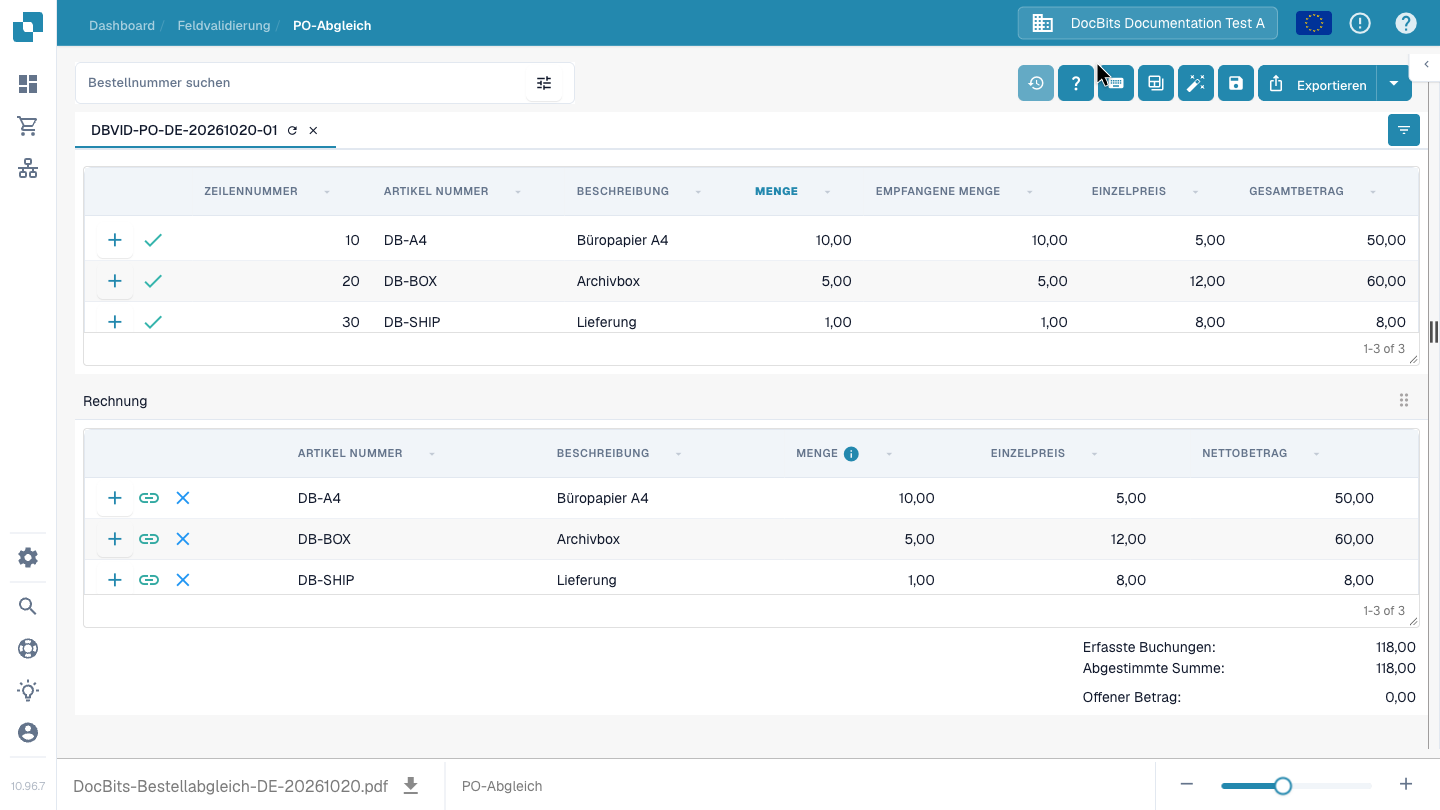
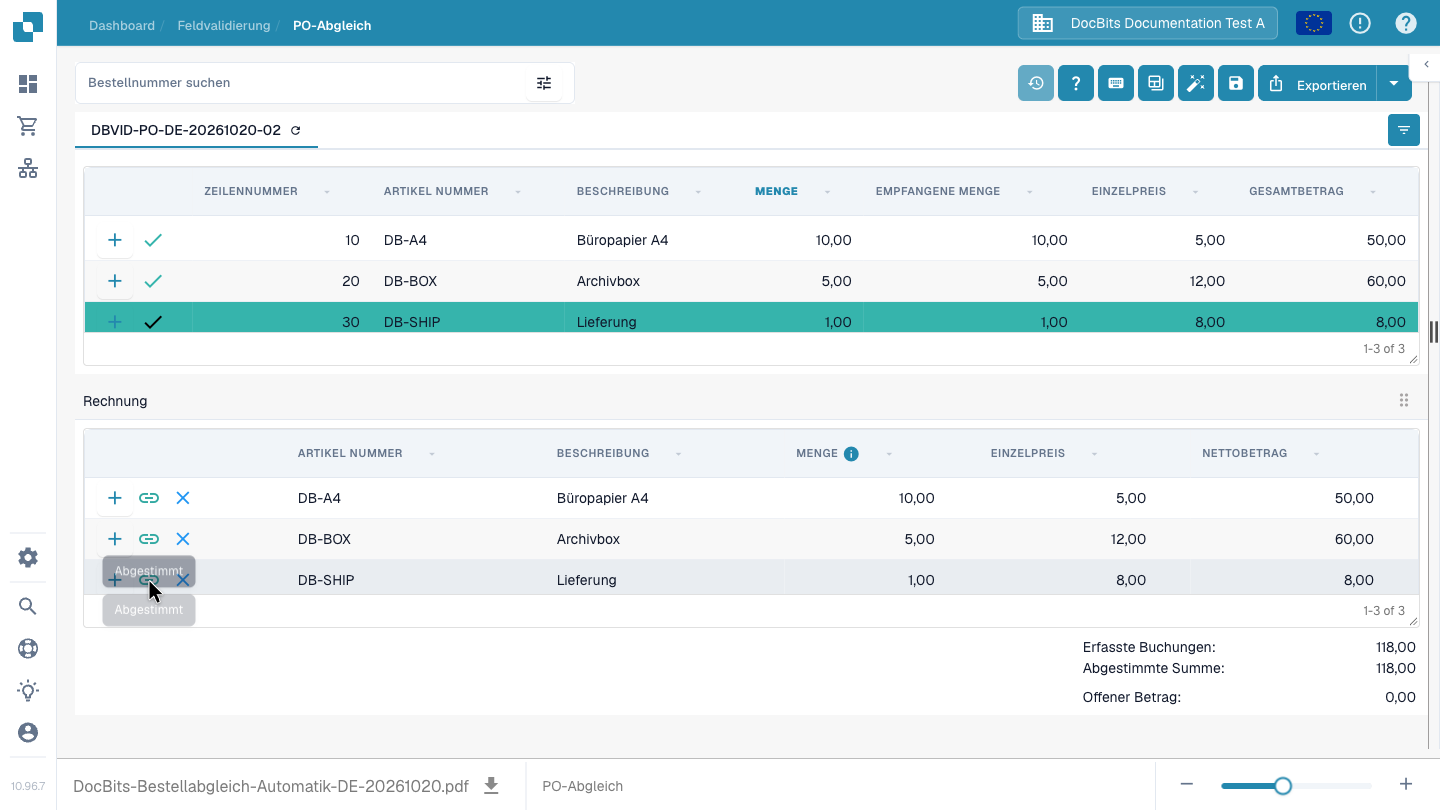
docs(de): explain automatic PO matching and add admin rules tutorial

diff --git a/readme/administration-and-setup/settings/global-settings/document-types/more-settings/purchase-order/purchase-order-matching-rules.md b/readme/administration-and-setup/settings/global-settings/document-types/more-settings/purchase-order/purchase-order-matching-rules.md
@@ -1,8 +1,18 @@
 # Regeln für die Übereinstimmung von Bestellungen
 
+## Video: PO-Abgleichsregeln und Toleranzen einrichten
+
+Der Administrator zeigt, wie er eine veröffentlichte Regelversion als Entwurf kopiert, die Vergleiche prüft, eine Änderung speichert und den gespeicherten Entwurf erneut lädt. Der Rundgang erklärt **Single Match**, **Multi Match** und **Match on Total**, Prioritäten innerhalb der Verarbeitungsstufen, automatische und manuelle Anwendung, Spaltenvergleiche, Aktivierungsbedingungen, Einheiten und Verpackungseinheiten.
+
+Im zweiten Teil richtet er beim Dokumenttyp eine **Einzelpreistoleranz von fünf Prozent** ein und erklärt Prozentwerte, feste Beträge, artikelbezogene Vorgaben sowie getrennte Toleranzen für Fracht, Zusatzkosten und Steuern. Die Veröffentlichung und Aktivierung einer Regelversion erfolgen erst nach fachlichen Tests.
+
+{% embed url="https://docbits-videos.fra1.cdn.digitaloceanspaces.com/settings-assistant/po-matching-rules-admin/v1/de.mp4" %}
+
+**Full Match ist ein Dokumentstatus, kein Regeltyp:** Alle relevanten Rechnungspositionen sind erfolgreich abgeglichen. Ein **Partial Match** lässt weitere Rechnungspositionen offen und bedeutet keine feste 50-Prozent-Grenze. Eine Regel vom Typ **Match on Total** kann zu einem vollständigen Abgleich beitragen, hat aber eine andere Bedeutung. Freigabe und Export bleiben eigene Prozessschritte. Den Ablauf für Anwender zeigt der [Rundgang zum Bestellabgleich](../../../../../../end-user-and-partner-section/end-user-section/purchase-order-matching/README.md).
+
 ## Einführung: Bestellungen und Verwaltung der PO-Regeln
 
-Die Übereinstimmung von Bestellungen (Purchase Order, PO) ist ein kritischer Prozess, um die Konsistenz zwischen Bestellungen (POs) und den entsprechenden eingehenden Rechnungen oder Wareneingängen sicherzustellen. Ein robustes Regelwerk ist unerlässlich, um eine hohe Rate an automatischer Übereinstimmung zu erreichen, Betrug zu verhindern und korrekte Zahlungen zu gewährleisten.
+Die PO-Abgleichsregeln bestimmen, welche Rechnungs- und Bestellpositionen zusammenpassen. DocBits verwendet sie beim automatischen Abgleich und, soweit für die Regel zugelassen, bei einer manuell gewählten Verbindung. Administratoren legen Vergleichsfelder, Regeltypen, Prioritäten und fachliche Ausnahmen fest.
 
 Diese Konfigurationsseite dient dazu, die Regeln zu definieren und zu verwalten, die bestimmen, _wie_ PO-Positionen mit dem entsprechenden eingehenden Dokument (Rechnung, Auftragsbestätigung) abgeglichen werden.
 
@@ -14,7 +24,7 @@ Diese Konfigurationsseite dient dazu, die Regeln zu definieren und zu verwalten,
 
 ## Zugriff
 
-1. Navigieren Sie zu **Einstellungen** → **Globale Einstellungen** → **Dokumenttypen**, wählen Sie den Dokumenttyp aus und klicken Sie auf **Weitere Einstellungen**.
+1. Navigieren Sie zu **Einstellungen** → **Dokumenttypen**, wählen Sie den Dokumenttyp aus und klicken Sie auf **Weitere Einstellungen**.
 2. Aktivieren Sie in der Karte **Bestellung** den Schalter **PO-Match serverseitig**.
 3. Klicken Sie neben dem Schalter auf **PO-Abgleichsregeln konfigurieren**.
 
@@ -45,12 +55,8 @@ Diese Einstellungen legen den Rahmen fest, der für alle Matching-Regeln gilt:
   * **Gültige Werte:** Menge oder andere verfügbare Mengenfelder im System, abhängig von der Datenstruktur (z. B. ein alternatives normalisiertes Mengenfeld).
   * **Abhängigkeit:** Bestimmt die Grundlage für alle Matching-Regeln, die Menge in ihren Vergleichskriterien einschließen.
 * **Einstellung:** Standardtoleranz
-  * **Zweck:** Definiert, wie stark ein numerischer Wert im Dokument vom Bestellwert abweichen darf und trotzdem als Übereinstimmung gilt. Dies kompensiert Rundungsdifferenzen. Es gilt für **jede numerische Spalte**, bei der "Toleranz zulassen" aktiviert ist — sowohl Menge als auch Stückpreis.
-  * **Gültiger Wert:** Eine Dezimalzahl. Ob diese als **absoluter Wert** (0,005 = eine Abweichung von bis zu 0,005 in der verglichenen Menge oder dem Preis) oder als **Prozentsatz** (0,5 = 0,5 % des verglichenen Werts) interpretiert wird, wird durch den **Toleranztyp** des Regelwerks festgelegt (`value` oder `percent`; neue Regelwerke verwenden `value`). Artikelspezifische Toleranzen (siehe [Toleranzeinstellungen](purchase-order-tolerance-settings-additional-purchase-order-tolerance.md)) überschreiben die Standardtoleranz für diesen Artikel.
-  * **Abhängigkeit:** Gilt für Regeln, die numerische Felder zum Abgleich verwenden und bei denen die Option "Toleranz zulassen" aktiviert ist.
-* **Einstellung:** Einzelspiel-Fallback aktivieren
-  * **Zweck:** Wenn aktiviert, wird die letzte verbleibende nicht abgeglichene Bestellposition automatisch abgeglichen, auch wenn die Lieferscheinnummer abweicht. Der Abgleich wird zu Ihrer Prüfung als Abweichung markiert.
-  * **Gültige Werte:** Ein oder aus. Der Standard ist aus.
+  * Die Anzeige, zum Beispiel `0.005`, ist keine Eingabe für fünf Prozent Einzelpreisabweichung. Richten Sie fachliche Mengen- und Einzelpreisgrenzen in den [PO-Toleranzeinstellungen des Dokumenttyps](purchase-order-tolerance-settings-additional-purchase-order-tolerance.md) ein. Dort besitzt jeder Wert eine eigene Auswahl für Prozent oder einen festen Wert.
+  * Im numerischen Spaltenvergleich der Regel muss **Toleranz zulassen** aktiviert sein. Artikelbezogene Vorgaben können die allgemeinen Werte übersteuern; prüfen Sie das konkrete Ergebnis mit Testbelegen.
 
 ***
 
@@ -62,11 +68,11 @@ Die Regelliste zeigt alle verfügbaren Matching-Regeln an und verwaltet deren Au
 
 #### Aufbau und Ausführung
 
-* **Priorität:** Dieses numerische Feld (z. B. 1, 2, 3) bestimmt die Reihenfolge der Ausführung der Regeln. Regeln mit einer niedrigeren Prioritätsnummer werden zuerst versucht. Dies ermöglicht Administratoren, eine Hierarchie zu strukturieren, typischerweise beginnend mit den spezifischsten und strengsten Regeln (z. B. Abgleich nach Zeilennummer und Artikelnummer) und als Rückfall auf breitere oder weniger restriktive Regeln.
+* **Priorität:** Dieses numerische Feld (z. B. 1, 2, 3) bestimmt die Reihenfolge innerhalb der jeweiligen Verarbeitungsstufe. Regeln mit einer niedrigeren Prioritätsnummer werden dort zuerst versucht. Die Priorität einer Einzelregel ändert nicht die Reihenfolge der Regeltypen und Stufen. Dies ermöglicht Administratoren, eine Hierarchie zu strukturieren, typischerweise beginnend mit den spezifischsten und strengsten Regeln (z. B. Abgleich nach Zeilennummer und Artikelnummer) und als Rückfall auf breitere oder weniger restriktive Regeln.
 * **Name & Beschreibung:** Bietet eine klare Identifikation und Kontext für die Regel, erklärt die primären Kriterien (z. B. „Standardregel Nr. 1: Abgleich basierend auf Zeilennummer, Artikel-ID und Menge“).
-* **Aktiv:** Ein einfacher Umschalter, der eine sofortige Aktivierung oder Deaktivierung der Regel ermöglicht, ohne die Konfiguration löschen zu müssen.
+* **Aktiv:** Bestimmt, ob die Regel im gewählten Regelwerk verwendet wird. Bei der Bearbeitung eines Entwurfs ändern Sie zunächst diesen Entwurf; Speichern, Genehmigen und Aktivieren der Version sind getrennte Schritte.
 
-**Ausführungsablauf:** Das System führt den Abgleich in einer kaskadierenden Reihenfolge durch. Wenn eine Regel (z. B. Priorität 1) eine Position erfolgreich abgleicht, wird der Prozess für diese Position beendet. Wird keine Übereinstimmung gefunden, fährt das System mit der nächsten Regel in der Prioritätsreihenfolge fort (z. B. Priorität 2). Jeder Lauf wird im Dokument protokolliert; der **Matching-Verlauf** im Bildschirm zur Bestellabstimmung zeigt, welche Regel versucht wurde, welche übereinstimmte und welche übersprungen wurden und warum.
+**Ausführungsablauf:** Das System führt den Abgleich in Verarbeitungsstufen durch, unter anderem Einzel-, Mehrfach- und Summenabgleich sowie Rückfallstufen. Innerhalb einer Stufe werden die passenden aktiven Regeln nach ihrer Priorität versucht. Wenn eine Regel (z. B. Priorität 1) eine Position erfolgreich abgleicht, wird der Prozess für diese Position beendet. Wird keine Übereinstimmung gefunden, fährt das System mit der nächsten Regel in der Prioritätsreihenfolge fort (z. B. Priorität 2). Jeder Lauf wird im Dokument protokolliert; der **Matching-Verlauf** im Bildschirm zur Bestellabstimmung zeigt, welche Regel versucht wurde, welche übereinstimmte und welche übersprungen wurden und warum.
 
 ***
 
@@ -83,10 +89,10 @@ Dieser detaillierte Konfigurationsbereich definiert die spezifische Logik und Kr
 | Regeltyp           | Was sie bewirkt                                                                                                                                                                                                                  | Typische Verwendung                                                                    |
 | ------------------ | -------------------------------------------------------------------------------------------------------------------------------------------------------------------------------------------------------------------------------- | -------------------------------------------------------------------------------------- |
 | **Einzelspiel**    | Eine Bestellposition zu einer Dokumentposition. Jede konfigurierte Spalte muss übereinstimmen (innerhalb der erlaubten Toleranz).                                                                                                | Der Standardfall.                                                                      |
-| **Mehrfachspiel**  | Mehrere Bestellpositionen zu einer Dokumentposition oder mehrere Dokumentpositionen zu einer Bestellposition. Mengen werden **summiert**, der Stückpreis wird als **Durchschnitt** verglichen, die anderen Spalten müssen übereinstimmen. | Teillieferungen, eine Rechnungsposition, die mehrere Bestellpositionen abdeckt.        |
-| **Spiel auf Gesamt** | Vergleicht einen **Betrag** — üblicherweise den Nettobetrag der Dokumentposition gegen die **Summe** der Bestellung — und gleicht die gesamte Bestellung auf einmal ab.                                                         | Lieferanten, die pauschal abrechnen, Dienstleistungsrechnungen, einzeilige Rechnungen. |
+| **Mehrfachspiel**  | Mehrere Bestellpositionen zu einer Dokumentposition oder mehrere Dokumentpositionen zu einer Bestellposition. Die konfigurierte Gruppierung und Vergleichsstrategie bestimmen, ob Werte gleich sein, innerhalb einer Toleranz liegen oder als Summe passen müssen. | Teillieferungen, eine Rechnungsposition, die mehrere Bestellpositionen abdeckt.        |
+| **Spiel auf Gesamt** | Vergleicht einen **Betrag** — üblicherweise den Nettobetrag der Dokumentposition gegen die **Summe** der Bestellung — nach den konfigurierten Summenvergleichen und Aktivierungsbedingungen. Dieser Regeltyp ist etwas anderes als der Dokumentstatus **Full Match**.                                                         | Lieferanten, die pauschal abrechnen, Dienstleistungsrechnungen, einzeilige Rechnungen. |
 
-<figure><img src="../../../../../../.gitbook/assets/po-match-rules-multi-match-configuration-de.png" alt="Die Konfiguration der Standardregel für Mehrfachspiel"><figcaption><p>Eine Mehrfachspiel-Regel vergleicht Artikelkennzeichen, summierte Menge und durchschnittlichen Stückpreis.</p></figcaption></figure>
+<figure><img src="../../../../../../.gitbook/assets/po-match-rules-multi-match-configuration-de.png" alt="Die Konfiguration der Standardregel für Mehrfachspiel"><figcaption><p>Eine Multi-Match-Regel vergleicht mehrere Positionen anhand ihrer Gruppierung und eingerichteten Vergleichsstrategien.</p></figcaption></figure>
 
 <figure><img src="../../../../../../.gitbook/assets/po-match-rules-total-match-configuration-de.png" alt="Die Konfiguration der Standardregel für Spiel auf Gesamt"><figcaption><p>Eine Regel Spiel auf Gesamt vergleicht einen Betrag, hier den Nettobetrag mit der Bestellsumme.</p></figcaption></figure>
 
@@ -121,7 +127,7 @@ Dies ist die Kern-Definition der Logik der Regel, die angibt, welche Felder zwis
    * **PO-Spalten:** Das Feld, das aus den Bestelldaten entnommen wird (z. B. Zeilennummer).
    * **Extrahierte Tabellenspalten:** Das entsprechende Feld, das aus dem eingehenden Dokument (Rechnung/Auftragsbestätigung) extrahiert oder geparst wurde (z. B. `POSITION`).
 2. **Vergleichstyp:** Definiert die Art der erforderlichen Übereinstimmung (z. B. Tt für Text-/Stringvergleich, der eine genaue Zeichen-für-Zeichen-Übereinstimmung erfordert; # für numerischen Vergleich).
-3. **Toleranz zulassen:** Für numerische Felder (Menge, Preis) weist diese Option das System an, die zuvor definierte globale Standardtoleranz anzuwenden. Ist diese Option _nicht_ aktiviert, müssen die Werte exakt übereinstimmen.
+3. **Toleranz zulassen:** Erlaubt beim jeweiligen numerischen Vergleich die zutreffenden [Mengen- und Einzelpreistoleranzen](purchase-order-tolerance-settings-additional-purchase-order-tolerance.md). Ohne diese Option wird die fachliche Toleranz für diese Vergleichsspalte nicht angewendet. Prüfen Sie auch mögliche artikelbezogene Vorgaben.
 4. **Bei manueller Übereinstimmung ignorieren:** Wenn aktiviert, wird dieses Kriterium bei manueller Intervention gelockert. Dies ist nützlich für Felder wie Beschreibungen oder interne Referenzen, die leicht variieren können, sodass der Benutzer kleinere, nicht kritische Abweichungen übergehen kann.
 
 **Welche Spalten können verglichen werden**

diff --git a/readme/end-user-and-partner-section/end-user-section/purchase-order-matching/README.md b/readme/end-user-and-partner-section/end-user-section/purchase-order-matching/README.md
@@ -1,12 +1,12 @@
 # Bildschirm „Purchase Order Matching“
 
-Mit **PO-Abgleich** vergleichen Sie die für ein Dokument hinterlegten Bestellpositionen mit den extrahierten Rechnungspositionen. Die Bestelldaten können aus einer ERP-Integration oder einem anderen konfigurierten Import stammen. Der Bildschirm zeigt das Dokument neben den beiden Tabellen an, damit Sie Nummern, Mengen, Preise und Abweichungen prüfen können, bevor Sie speichern oder exportieren.
+DocBits übernimmt eine auf der Rechnung erkannte **Bestellnummer** automatisch und lädt die zugehörige Bestellung für den **PO-Abgleich**. Sie müssen die Nummer dann nicht erneut eingeben oder die Bestellung manuell suchen. Eingerichtete Abgleichregeln können auch die Rechnungspositionen automatisch mit den Bestellpositionen verbinden. Ihre Aufgabe ist es, das Ergebnis zu prüfen und ungeklärte Abweichungen zu bearbeiten. Die Bestelldaten können aus einer ERP-Integration oder einem anderen konfigurierten Import stammen. Der Bildschirm zeigt das Dokument neben den beiden Tabellen an, damit Sie Nummern, Mengen, Preise und Abweichungen prüfen können, bevor Sie speichern oder exportieren.
 
 ## Rechnungspositionen prüfen und mit einer Bestellung abgleichen
 
-Der Rundgang zeigt die Suche nach einer Bestellung, den Vergleich von Artikeln, Mengen und Preisen sowie den manuellen und automatischen Positionsabgleich. Eine absichtlich falsche Zuordnung macht die Warnung sichtbar: Verbindung lösen, korrekt zuordnen, Summen kontrollieren und speichern. Nach dem Neuladen bleiben alle drei richtigen Zuordnungen erhalten.
+Der Rundgang beginnt mit dem Normalfall: DocBits hat die Bestellnummer aus der Rechnung übernommen, lädt die passende Bestellung ohne manuelle Suche und hat die drei Positionen automatisch abgeglichen. Die Anwenderin prüft Artikel, Mengen, Preise und Summen, erklärt Full Match und Partial Match an konkreten Beispielen und speichert das Ergebnis. Erst danach zeigt sie Sonderfälle: eine nicht erkannte Bestellnummer manuell suchen sowie eine falsche Verbindung lösen und korrigieren. Diese manuellen Schritte sind keine Pflichtschritte bei jeder Rechnung.
 
-{% embed url="https://docbits-videos.fra1.cdn.digitaloceanspaces.com/settings-assistant/po-matching-customer/v1/de.mp4" %}
+{% embed url="https://docbits-videos.fra1.cdn.digitaloceanspaces.com/settings-assistant/po-matching-customer/v2/de.mp4" %}
 
 {% hint style="info" %}
 Bestelldaten müssen in der Organisation verfügbar und der PO-Abgleich für den Dokumenttyp eingerichtet sein. Die Regeln, Toleranzen und verfügbaren Freigabe- oder Exportaktionen hängen von Ihrer Konfiguration und Ihren Berechtigungen ab.
@@ -14,18 +14,51 @@ Bestelldaten müssen in der Organisation verfügbar und der PO-Abgleich für den
 
 <figure><img src="../../../.gitbook/assets/po-matching-matched-de.png" alt="Gespeicherter deutscher Bestellabgleich: drei erfolgreich zugeordnete Rechnungspositionen, 118 Euro abgestimmt und 0 Euro offen"><figcaption><p>Das Beispiel enthält Papier, Archivboxen und Lieferung. Alle drei Positionen sind erfolgreich zugeordnet; der offene Betrag ist null.</p></figcaption></figure>
 
-## Bestellung finden und prüfen
+## Full Match, Partial Match und Abweichungen verstehen
 
-1. Öffnen Sie eine Rechnung im **PO-Abgleich**. Wenn Ihre Organisation mehrere Bestellungen hat, geben Sie eine Nummer in **Bestellnummer suchen** ein.
-2. Wählen Sie das Filtersymbol neben dem Suchfeld für **Schlüsselwort**, **Lieferant**, **Status**, **Status der Bestellung**, Daten, Betragsbereich, Sortierung und die Anzahl der angezeigten Datensätze. Wählen Sie **Mehr** für zusätzliche Kriterien. Wählen Sie **Anwenden**, um zu suchen, oder **Löschen**, um die Filter zurückzusetzen.
-3. Öffnet die Suche eine Ergebnisliste, laden Sie die passende Bestellung mit einem Doppelklick auf einen Treffer. Wählen Sie anschließend die Bestellnummer oberhalb der Tabelle aus, um deren Positionen zu prüfen. Das Aktualisierungssymbol neben der Nummer lädt die Daten dieser Bestellung neu. Ein Neuladen kann von der konfigurierten Integration abhängen.
-4. Vergleichen Sie jede Bestellposition mit der Rechnung und ihrer extrahierten Tabelle. Das **+** auf einer Position klappt Abgleich-Details auf; es verbindet die Position nicht selbst mit der Rechnung. Die Details zeigen vorhandene Verbindungen und Abgleichinformationen.
+| Ergebnis | Bedeutung | Ihr nächster Schritt |
+| --- | --- | --- |
+| **Full Match – vollständiger Abgleich** | Alle relevanten Rechnungspositionen sind nach den geltenden Regeln erfolgreich abgeglichen. Im Video sind das drei Positionen und 118 Euro netto. | Ergebnis und Beleg prüfen, speichern und den vorgesehenen Freigabe- oder Exportprozess fortsetzen. |
+| **Partial Match – teilweiser Abgleich** | Ein Teil der Rechnungspositionen ist zugeordnet, weitere Positionen sind noch offen. Im Video ist Papier mit 50 Euro zugeordnet; Archivboxen und Lieferung mit zusammen 68 Euro sind offen. | Offene Positionen und die Ursache prüfen; bei Bedarf die korrekte Zuordnung ergänzen oder die Angaben klären. |
+| **Abweichung / Unpassend** | Eine Verbindung besteht, aber ein geprüfter Wert wie Menge, Einzelpreis oder Artikelkennung passt nicht. | Abweichungsdetails lesen. Eine falsche Verbindung lösen; eine tatsächliche Differenz nach Ihrem Prüfprozess klären. |
 
-<figure><img src="../../../.gitbook/assets/po-matching-search-de.png" alt="Deutsche Bestell-Suchfilter mit Lieferant, Status, Datums- und Betragsgrenzen, Sortierung sowie Anwenden- und Löschen-Schaltflächen"><figcaption><p>Nutzen Sie das Filterpanel, um die angezeigten Bestellungen einzugrenzen.</p></figcaption></figure>
+<figure><img src="../../../.gitbook/assets/po-matching-partial-de.png" alt="Teilweiser Bestellabgleich: Papier erfolgreich zugeordnet, zwei Rechnungspositionen offen, 50 Euro abgestimmt und 68 Euro offen"><figcaption><p>Partial Match: Eine von drei Rechnungspositionen ist erfolgreich zugeordnet. Das ist keine feste 50-Prozent-Grenze.</p></figcaption></figure>
+
+„Half Match“ ist keine feste 50-Prozent-Grenze. Verwenden Sie für einen unvollständigen Abgleich den Begriff **Partial Match**. Eine passende Bestellnummer oder Gesamtsumme allein ergibt noch keinen Full Match. Umgekehrt darf die Bestellung weitere, noch nicht berechnete Positionen enthalten: Entscheidend sind die relevanten Positionen dieser Rechnung. Ein Full Match bestätigt den Abgleich; Freigabe und Export bleiben eigene Prozessschritte.
+
+## Was die Regeln und Toleranzen bestimmen
+
+Administratoren legen fest, welche Felder verglichen werden und welche Regeln automatisch oder bei einer manuellen Verbindung gelten. **Single Match** vergleicht eine Rechnungsposition mit einer Bestellposition. **Multi Match** ermöglicht den gemeinsamen Abgleich mehrerer Positionen nach den eingerichteten Gruppierungen und Vergleichsstrategien. **Match on Total** ist eine Regelart für summierte Werte und hat eine andere Bedeutung als der Dokumentstatus Full Match.
+
+Mengen- und Einzelpreistoleranzen können als Prozent oder fester Wert eingerichtet werden. Bei einem Bestellpreis von 10 Euro bedeuten 5 Prozent eine erlaubte Abweichung von 0,50 Euro in beide Richtungen, also 9,50 bis 10,50 Euro. Die passende numerische Vergleichsspalte der Regel muss Toleranz zulassen. Artikelbezogene Einstellungen können die allgemeinen Werte übersteuern. Außerhalb der erlaubten Grenzen klären Sie die Ursache; ändern Sie keine Rechnungswerte allein für eine erfolgreiche Markierung.
+
+### Adminvideo: PO-Abgleichsregeln und Toleranzen einrichten
+
+Der Administrator zeigt die drei Regeltypen, Prioritäten innerhalb der Verarbeitungsstufen, Spaltenvergleiche, automatische und manuelle Anwendung sowie erweiterte Optionen. Er bearbeitet und speichert einen Entwurf und richtet im Testbeispiel eine Einzelpreistoleranz von fünf Prozent ein. Er erklärt außerdem feste Werte, artikelbezogene Ausnahmen und die getrennten Grenzen für Fracht, Zusatzkosten und Steuern. Die Aktivierung eines geänderten Regelwerks folgt erst nach fachlichen Tests.
+
+{% embed url="https://docbits-videos.fra1.cdn.digitaloceanspaces.com/settings-assistant/po-matching-rules-admin/v1/de.mp4" %}
+
+Die einzelnen Einstellungen sind unter [PO-Abgleichsregeln](../../../administration-and-setup/settings/global-settings/document-types/more-settings/purchase-order/purchase-order-matching-rules.md) und [PO-Toleranzen](../../../administration-and-setup/settings/global-settings/document-types/more-settings/purchase-order/purchase-order-tolerance-settings-additional-purchase-order-tolerance.md) beschrieben.
+
+## Automatisch übernommene Bestellung prüfen
+
+1. Öffnen Sie die Rechnung im **PO-Abgleich**. Eine erkannte Bestellnummer wird aus dem Rechnungsfeld **Bestellung** übernommen; DocBits lädt darüber die zugehörigen Bestellpositionen automatisch. Voraussetzung ist, dass die Bestellung in Ihrer Organisation verfügbar ist.
+2. Wählen Sie die Bestellnummer oberhalb der Tabelle, um die geladenen Positionen zu prüfen. Das Aktualisierungssymbol neben der Nummer lädt die Daten dieser Bestellung neu. Ein Neuladen kann von der konfigurierten Integration abhängen.
+3. Vergleichen Sie die automatisch zugeordneten Rechnungs- und Bestellpositionen sowie ihre Statusmarkierungen. Das **+** auf einer Position klappt vorhandene Abgleich-Details auf; es verbindet die Position nicht selbst mit der Rechnung.
+
+### Nur bei Bedarf: Bestellung manuell suchen
+
+Ist keine passende Bestellnummer erkannt oder muss eine andere Bestellung geprüft werden, nutzen Sie die manuelle Suche:
+
+1. Geben Sie die Nummer in **Bestellnummer suchen** ein. Öffnet sich eine Ergebnisliste, laden Sie die passende Bestellung mit einem Doppelklick auf einen Treffer.
+2. Wählen Sie bei Bedarf das Filtersymbol neben dem Suchfeld für **Schlüsselwort**, **Lieferant**, **Status**, **Status der Bestellung**, Datums- und Betragsbereiche, Sortierung und die Anzahl der angezeigten Datensätze. Wählen Sie **Mehr** für zusätzliche Kriterien, **Anwenden** zum Suchen oder **Löschen** zum Zurücksetzen.
+3. Prüfen Sie anschließend die geladenen Bestellpositionen und das Abgleichergebnis. Eine manuelle Suche ersetzt die Prüfung der Bestellnummer auf dem Originalbeleg nicht. Wird kein Treffer gefunden, prüfen Sie außerdem den Import der Bestellung in diese Organisation. Die Suche legt keine fehlende Bestellung an.
+
+<figure><img src="../../../.gitbook/assets/po-matching-search-de.png" alt="Deutsche Bestell-Suchfilter mit Lieferant, Status, Datums- und Betragsgrenzen, Sortierung sowie Anwenden- und Löschen-Schaltflächen"><figcaption><p>Die manuelle Suche und ihre Filter helfen bei Sonderfällen. Eine bereits erkannte Bestellnummer müssen Sie hier nicht nochmals eingeben.</p></figcaption></figure>
 
 ## Positionen abgleichen und das Ergebnis prüfen
 
-Wenn beide Tabellen Positionen enthalten, verbinden Sie eine Rechnungsposition per Drag & Drop mit der passenden Bestellposition oder nutzen Sie die Abgleich-Aktionen im Kontextmenü der Position. **Auto Match** versucht, geeignete Positionen nach den Regeln Ihrer Organisation zu verbinden. Prüfen Sie das Ergebnis vor dem Speichern: Eine gleiche Artikelnummer allein belegt nicht, dass Menge, Preis oder Lieferbedingungen übereinstimmen. Siehe [Bestellnummer-Abgleich-Tools](purchase-order-matching-tools.md) für die Symbolleiste, Spaltensteuerung und manuelle Aktionen sowie [Tastenkombinationen](keyboard-shortcuts.md) für Tastaturaktionen.
+Der automatische Positionsabgleich verbindet geeignete Rechnungs- und Bestellpositionen nach den Regeln Ihrer Organisation. Prüfen Sie zuerst diese vorhandenen Zuordnungen. Bleiben Verbindungen offen oder ist eine Zuordnung falsch, können Sie Positionen manuell per Drag & Drop oder über das Kontextmenü verbinden. Über **Auto Match** können Sie den automatischen Abgleich bei Bedarf erneut anstoßen. Prüfen Sie das Ergebnis vor dem Speichern: Eine gleiche Artikelnummer allein belegt nicht, dass Menge, Preis oder Lieferbedingungen übereinstimmen. Siehe [Bestellnummer-Abgleich-Tools](purchase-order-matching-tools.md) für die Symbolleiste, Spaltensteuerung und manuelle Aktionen sowie [Tastenkombinationen](keyboard-shortcuts.md) für Tastaturaktionen.
 
 ### Manuell verbinden und eine falsche Zuordnung lösen
 
@@ -45,7 +78,7 @@ Häufige Meldungen und nächste Schritte:
 
 | Was Sie sehen | Was Sie prüfen sollten |
 | --- | --- |
-| Keine Bestellnummer | Prüfen Sie die Bestellnummer im Dokument, übernehmen Sie den korrekten Wert aus dem Originalbeleg und speichern Sie. |
+| Keine Bestellnummer | Prüfen Sie die Bestellnummer im Dokument. Wählen Sie das Zielfeld und übernehmen Sie den Wert durch Auswählen beziehungsweise Doppelklicken auf dem Originalbeleg; speichern Sie anschließend. Eine manuelle Tastatureingabe trainiert die Erkennung nicht. |
 | Keine Bestellung gefunden | Prüfen Sie die Nummer und ob die Bestellung in diese Organisation importiert wurde. |
 | Die Bestellung wurde gefunden, aber nicht verbunden | Versuchen Sie **Auto Match**, oder verbinden Sie die Positionen manuell, nachdem Sie beide Tabellen geprüft haben. |
 | Keine Bestellposition passt | Vergleichen Sie die Rechnungswerte mit der Bestellung und prüfen Sie die Abgleich-Historie. |

diff --git a/readme/administration-and-setup/settings/global-settings/document-types/more-settings/purchase-order/purchase-order-tolerance-settings-additional-purchase-order-tolerance.md b/readme/administration-and-setup/settings/global-settings/document-types/more-settings/purchase-order/purchase-order-tolerance-settings-additional-purchase-order-tolerance.md
@@ -1,63 +1,36 @@
 # Einstellungen zur Toleranz von Bestellungen / Zusätzliche Toleranz für Bestellungen
 
-### **Einstellung zur Konfiguration von Bestelltoleranzen**
+Mengen, Einzelpreise und zusätzliche Kosten dürfen nur innerhalb der fachlich festgelegten Grenzen vom Bestellwert abweichen. Administratoren richten diese Grenzen pro Dokumenttyp ein. Ein erfolgreicher Abgleich innerhalb der Toleranz ersetzt die Freigabe oder den Exportprozess nicht.
 
-Gehe zu **Einstellungen → Allgemeine Einstellungen → Dokumenttypen → Weitere Einstellungen → Bestellungen → Eigener Bereich für Bestelltoleranz**
+## Mengen- und Einzelpreistoleranzen einrichten
 
-#### **So funktioniert es**
+1. Öffnen Sie **Einstellungen → Dokumenttypen**, wählen Sie den Dokumenttyp, zum Beispiel **Rechnung**, und öffnen Sie **Weitere Einstellungen → Bestellung**.
+2. Aktivieren Sie **PO-Toleranzeinstellung**. Für **Menge** und **Einzelpreis** erscheint jeweils ein Zahlenfeld mit einer eigenen Auswahl **Einheit**.
+3. Wählen Sie **%** für einen Prozentsatz oder **Wert** für eine feste Abweichung und tragen Sie die fachlich erlaubte Grenze ein. Prüfen Sie beide Angaben getrennt.
+4. Kontrollieren Sie den angezeigten Wert nach dem Ändern. Schalter und Einheitenauswahl werden direkt gespeichert; ein Zahlenwert wird beim Verlassen des Feldes gespeichert.
+5. Lassen Sie im passenden numerischen Spaltenvergleich der [PO-Abgleichsregel](purchase-order-matching-rules.md) **Toleranz zulassen** zu. Testen Sie einen passenden Beleg sowie Werte innerhalb und außerhalb der Grenze, bevor Sie die Konfiguration im vorgesehenen Prozess verwenden.
 
-Wenn aktiviert, ermöglicht diese Einstellung, Toleranzen für **Menge** und/oder **Stückpreis** zu definieren. Diese Toleranzen können entweder als Prozentsatz oder als fester Wert festgelegt werden. Das bedeutet, dass eine Rechnung innerhalb des angegebenen Toleranzbereichs von der Bestellung (PO) abweichen kann, ohne als Abweichung markiert zu werden, was Flexibilität bietet und einen nahtlosen Ablauf gewährleistet.
+<figure><img src="../../../../../../.gitbook/assets/po-tolerances-five-percent-de.png" alt="Deutsche Dokumenttyp-Einstellungen: PO-Toleranzeinstellung aktiv, getrennte Werte für Menge und Einzelpreis, Einzelpreis auf fünf Prozent"><figcaption><p>Im Beispiel ist die Einzelpreistoleranz auf fünf Prozent eingestellt. Menge und Einzelpreis haben jeweils eine eigene Einheit.</p></figcaption></figure>
 
-<mark style="color:red;">**HINWEIS**</mark>**:** Toleranzen wirken in beide Richtungen; das heißt, der Rechnungswert kann sowohl höher als auch niedriger als der PO-Wert innerhalb des erlaubten Bereichs sein.
+## Prozent und fester Wert im Vergleich
 
-#### **Einrichten**
+Toleranzen gelten in beide Richtungen, bezogen auf den Bestellwert.
 
-* **Einstellung aktivieren:**
-  * Aktiviere die PO-Toleranzeinstellung.
-* **Toleranzen konfigurieren:**
-  * Es erscheinen vier Felder:
-    * Ein Feld für den **Mengen-Toleranzbetrag**.
-    * Ein Feld für den **Stückpreis-Toleranzbetrag**.
-  * Hinter jedem Feld gibt es ein Dropdown-Menü, in dem du den Toleranztyp auswählen kannst:
-    * **Prozent:** Gibt eine prozentuale Toleranz an.
-    * **Wert:** Gibt einen festen Betrag an, um den sich der Wert unterscheiden kann.
+| Einstellung | Bestellpreis | Erlaubter Bereich |
+| --- | --- | --- |
+| Einzelpreis **5 %** | 10,00 Euro | 9,50 bis 10,50 Euro |
+| Einzelpreis **5 %** | 20,00 Euro | 19,00 bis 21,00 Euro |
+| Einzelpreis **Wert 0,50** | 10,00 Euro | 9,50 bis 10,50 Euro |
+| Einzelpreis **Wert 0,50** | 20,00 Euro | 19,50 bis 20,50 Euro |
 
-<figure><img src="../../../../../../.gitbook/assets/docbits_docbits_image_11.jpg" alt="DocBits Bild"><figcaption></figcaption></figure>
+Ein Preis von 10,60 Euro liegt außerhalb einer Toleranz von fünf Prozent bei 10,00 Euro Bestellpreis. Prüfen Sie die Ursache der Differenz, statt einen Rechnungswert für eine erfolgreiche Markierung zu verändern. Bei einer Mengentoleranz bezeichnet ein fester Wert eine Mengenabweichung und keinen Geldbetrag.
 
-#### **Beispielszenario:**
+Artikelbezogene Toleranzen können die allgemeinen Dokumenttyp-Werte übersteuern. Die Vorgabe für die eigene Artikelnummer hat dabei Vorrang vor einer Vorgabe über die Lieferantenartikelnummer. Prüfen Sie deshalb beim Bewerten eines Ergebnisses auch die zutreffenden Artikelvorgaben und die verwendete Abgleichregel.
 
-* Angenommen, die **Stückpreis** ist auf **5%** eingestellt.
-* Die Bestellung umfasst zwei Zeilen:
-  * **Zeile 1:** Stückpreis = **$5.00**
-  * **Zeile 2:** Stückpreis = **$2.00**
-* Auf der Rechnung:
-  * **Zeile 1:** Der Stückpreis wird auf **$4.80** angepasst (**innerhalb** der 5% Toleranz).
-  * **Zeile 2:** Der Stückpreis wird auf **$2.20** angepasst (**außerhalb** der 5% Toleranz).
-* **Ergebnis:**
-  * Zeile 1 wird **nicht als Abweichung markiert**, da $4.80 innerhalb von 5% von $5.00 liegt.
-  * Zeile 2 **wird als Abweichung markiert**, da $2.20 die erlaubte Abweichung von 5% von $2.00 überschreitet. Der Benutzer muss nun Maßnahmen ergreifen, bevor die Rechnung weiter bearbeitet werden kann.
+## Zusätzliche Toleranzen für Fracht, Zusatzkosten und Steuern
 
-<figure><img src="../../../../../../.gitbook/assets/docbits_invoice_settings.jpg" alt="Rechnung Einstellungen Übersicht"><figcaption></figcaption></figure>
+Aktivieren Sie im selben Bereich **Zusätzliche PO-Toleranzeinstellung**. Für **Fracht**, **Gebühren** (Zusatzkosten) und **Steuer** werden getrennte Zahlenfelder und Einheiten angezeigt. Wählen Sie für jede Grenze Prozent oder einen festen Wert und prüfen Sie die gespeicherten Angaben. Auch diese Toleranzen gelten nach oben und unten.
 
-### Einstellung zur Konfiguration zusätzlicher Bestelltoleranzeinstellungen
+<figure><img src="../../../../../../.gitbook/assets/po-tolerances-additional-de.png" alt="Zusätzliche PO-Toleranzeinstellung mit getrennten Feldern und Einheiten für Fracht, Gebühren und Steuer"><figcaption><p>Die zusätzlichen Toleranzen bilden einen eigenen Bereich und ersetzen keine Mengen- oder Einzelpreisregel.</p></figcaption></figure>
 
-Gehe zu **Einstellungen → Allgemeine Einstellungen → Dokumenttypen → Weitere Einstellungen → Bestellabschnitt → Zusätzliche PO-Toleranzeinstellung**
-
-#### **So funktioniert es**
-
-Wenn aktiviert, ermöglicht diese Einstellung, Toleranzen für **Fracht**, **Gebühren** und/oder **Steuern** zu definieren. Diese Toleranzen können entweder als Prozentsatz oder als fester Wert festgelegt werden, sodass Rechnungen leicht von den PO-Werten abweichen können, ohne als Abweichungen markiert zu werden. Dies bietet zusätzliche Flexibilität und stellt sicher, dass geringfügige Unterschiede den Arbeitsablauf nicht unterbrechen.
-
-<mark style="color:red;">**HINWEIS**</mark>**:** Genau wie bei den standardmäßigen Toleranzeinstellungen gelten diese Toleranzen in beide Richtungen – sie erlauben sowohl Erhöhungen als auch Senkungen innerhalb der festgelegten Grenzen.
-
-#### **Einrichten**
-
-* **Einstellung aktivieren:**
-  * Aktiviere die zusätzliche PO-Toleranzeinstellung.
-* **Toleranzen konfigurieren:**
-  * Sechs Felder werden sichtbar:
-    * Je ein Feld für die Toleranzbeträge für **Fracht**, **Gebühren** und **Steuern**.
-  * Jedes Feld hat ein begleitendes Dropdown-Menü, in dem du den Toleranztyp auswählen kannst:
-    * **Prozent:** Die Toleranz wird als Prozentsatz definiert.
-    * **Wert:** Die Toleranz wird als fester Betrag definiert.
-
-<figure><img src="../../../../../../.gitbook/assets/docbits_docbits_image_12.jpg" alt="DocBits Bild"><figcaption></figcaption></figure>
+Der [Adminfilm zu PO-Abgleichsregeln und Toleranzen](purchase-order-matching-rules.md#video-po-abgleichsregeln-und-toleranzen-einrichten) zeigt die Einrichtung. Der [Anwenderfilm](../../../../../../end-user-and-partner-section/end-user-section/purchase-order-matching/README.md#rechnungspositionen-prufen-und-mit-einer-bestellung-abgleichen) erläutert Full Match, Partial Match und die Bearbeitung von Ausnahmen.
